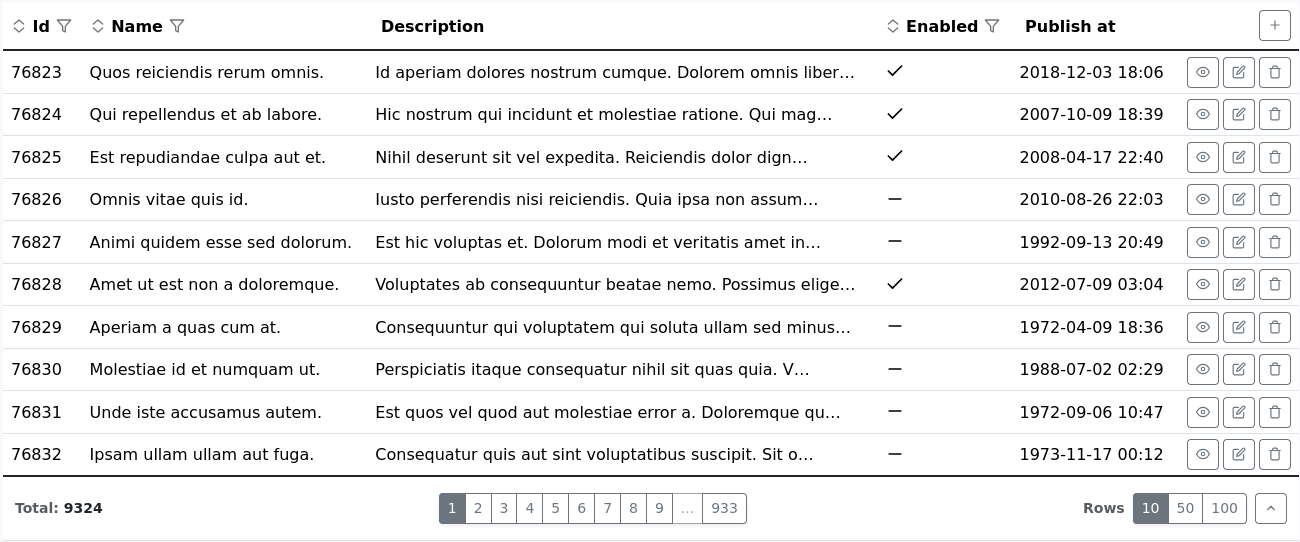
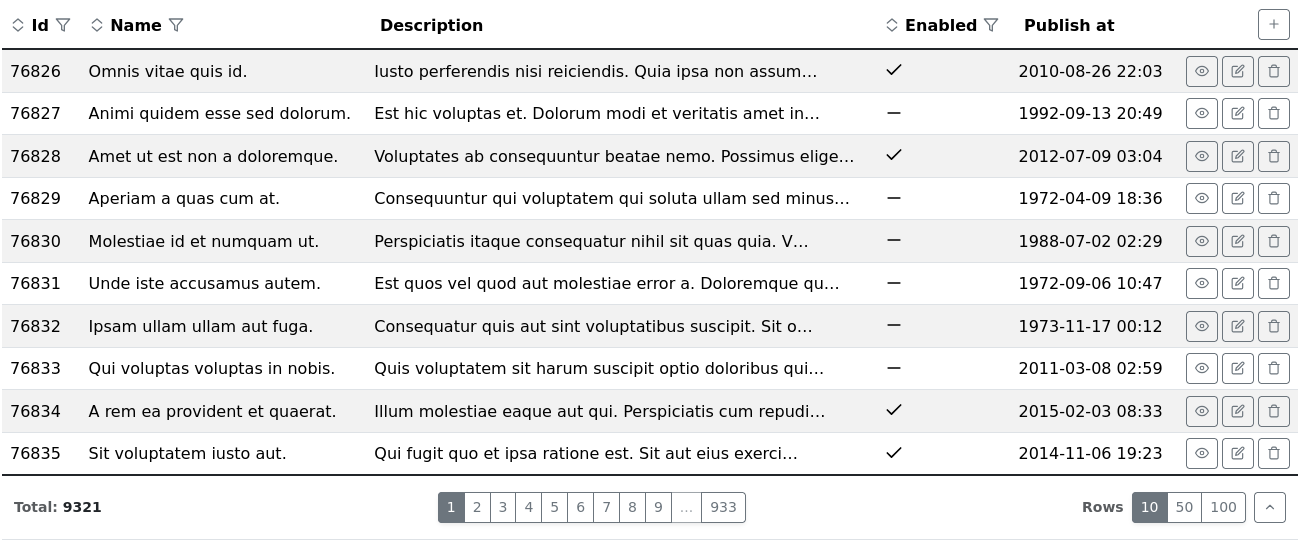
minor: make grid row hover and striping fixed defaults

diff --git a/docs/attributes.md b/docs/attributes.md
@@ -123,7 +123,7 @@ class User { ... }
 <details>
 <summary><strong>HtmlClass</strong></summary>
 
-Sets CSS classes for the grid table and specific columns.
+Adds CSS classes for the grid table and specific columns. Theme-level grid affordances such as hover and striped rows remain fixed in the bundled grid templates.
 
 ```php
 #[Attribute\Entity\HtmlClass(